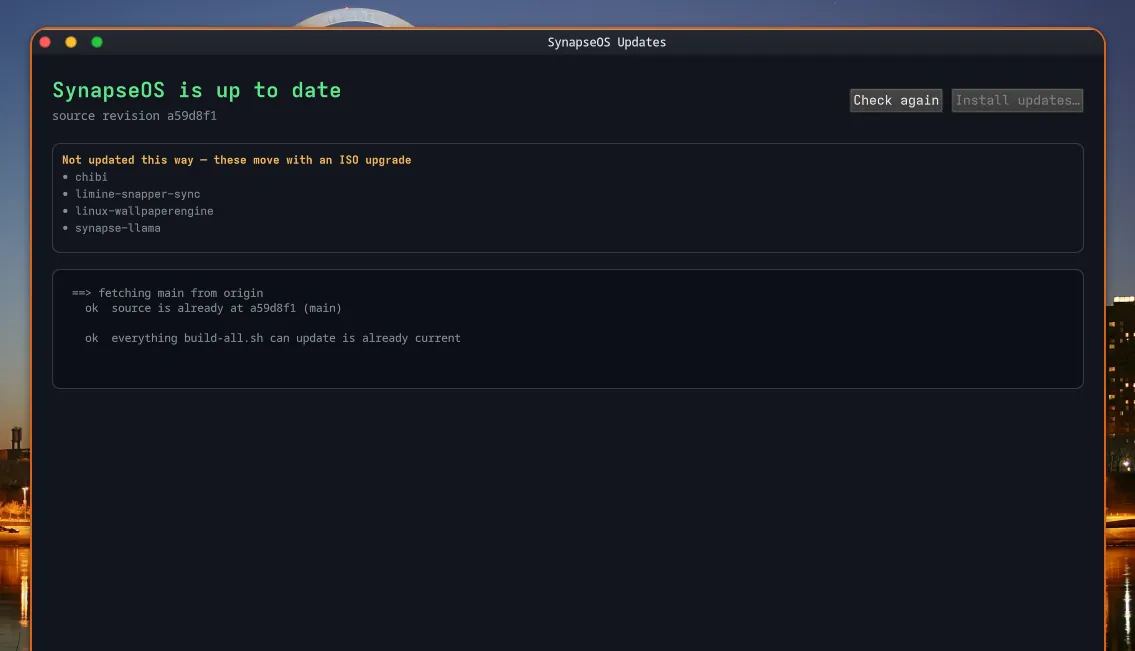
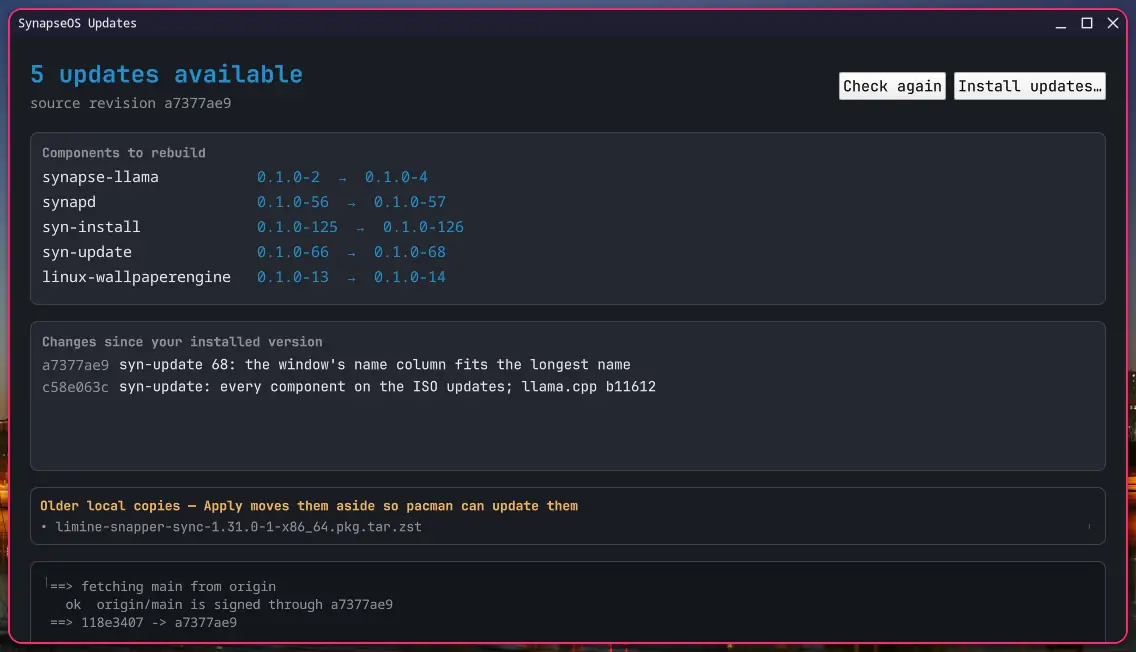
Updates: new screenshot and caption; wiki mirror for every-component updates
The Updates slide showed the window's "Not updated this way — these move with
an ISO upgrade" card, which syn-update 67 removes. The slide now shows a
headless capture of syn-update 68 against the live tree. It lists the
rebuilds, including synapse-llama, and the card for old local copies. The
caption says what the tool does now.

Wiki mirror rebuilt from GitHub: Updating, Building-and-Packaging,
Cutting-an-ISO-Release, synapd and Wallpapers now describe llama.cpp b11612
built per machine and the limine pair from [cachyos].

Claude-Session: https://claude.ai/code/session_01KmxTrjr4UBSp1Cm2y9CgyP

Changed region(s): [[0.0, 0.0, 1.0, 1.0]]

diff --git a/public/wiki/Updating.html b/public/wiki/Updating.html
@@ -63,7 +63,8 @@
 <li class="sub"><a href="#only-signed-commits-are-built">Only signed commits are built</a></li>
 <li class="sub"><a href="#options">Options</a></li>
 <li><a href="#requirements">Requirements</a></li>
-<li><a href="#what-it-does-not-update">What it does not update</a></li>
+<li><a href="#what-it-updates">What it updates</a></li>
+<li class="sub"><a href="#a-component-a-system-update-broke">A component a system update broke</a></li>
 <li><a href="#why-this-exists">Why this exists</a></li>
 <li><a href="#troubleshooting">Troubleshooting</a></li>
 </ul></nav>
@@ -72,7 +73,7 @@
       <p class="eyebrow">Using it</p>
       <h1>Updating</h1>
       <p class="wiki-meta">
-        <a href="https://github.com/velle999/SYNAPSE/wiki/Updating/_edit" rel="noopener">Edit on GitHub</a> &middot; last edited <time datetime="2026-09-21">2026-09-21</time>
+        <a href="https://github.com/velle999/SYNAPSE/wiki/Updating/_edit" rel="noopener">Edit on GitHub</a> &middot; last edited <time datetime="2026-10-14">2026-10-14</time>
       </p>
 
       <div class="wiki-body">
@@ -242,32 +243,60 @@ warn    the first is 1a2b3c4 &lt;its subject&gt;
 from <code>core</code> — roughly <strong>17 packages, ~118 MiB</strong> on a system that has none of them.</p>
 <p><code>cmake</code> and <code>meson</code> are deliberately <strong>not</strong> hard dependencies. <code>makepkg -s</code>
 pulls each component's own <code>makedepends</code> on demand, so you only pay for what you
-actually build. Hard-depending on cmake would add ~150 MiB for a component
-<code>syn-update</code> does not update anyway.</p>
+actually build.</p>
 <hr />
-<h2 id="what-it-does-not-update">What it does not update</h2>
-<p>Some components are on the ISO but are not rebuilt this way. <code>syn-update</code>
-<strong>reports</strong> these rather than skipping them silently — a component quietly frozen
-forever is the exact bug this tool exists to fix.</p>
+<h2 id="what-it-updates">What it updates</h2>
+<p>Every SynapseOS component on the ISO is rebuilt this way, including:</p>
 <div class="table-scroll"><table>
 <thead>
 <tr>
 <th>Component</th>
-<th>Why not</th>
+<th>What its build involves</th>
 </tr>
 </thead>
 <tbody>
 <tr>
 <td><code>synapse-llama</code></td>
-<td>Packaged from a staging tree that only exists during an ISO build</td>
+<td>llama.cpp, compiled on the machine for the backend it already runs — CUDA, Vulkan or CPU. A CUDA build is compiled for the installed card only and takes several minutes</td>
 </tr>
 <tr>
 <td><code>linux-wallpaperengine</code></td>
-<td>Its build fetches a ~1.3 GB CEF blob and needs ~6 GB of scratch</td>
+<td>Fetches a ~1.3 GB CEF blob and needs ~6 GB of scratch</td>
 </tr>
 </tbody>
 </table></div>
-<p>These move with an ISO upgrade instead.</p>
+<p>Two packages on the ISO come from the <code>[cachyos]</code> repository instead, and
+<code>pacman -Syu</code> updates them:</p>
+<div class="table-scroll"><table>
+<thead>
+<tr>
+<th>Package</th>
+<th>Source</th>
+</tr>
+</thead>
+<tbody>
+<tr>
+<td><code>limine-snapper-sync</code></td>
+<td><code>[cachyos]</code></td>
+</tr>
+<tr>
+<td><code>limine-mkinitcpio-hook</code></td>
+<td><code>[cachyos]</code></td>
+</tr>
+</tbody>
+</table></div>
+<p>The ISO carries copies of both for the installer. On a machine installed before
+<code>syn-update</code> 0.1.0-67, an old copy may still sit in the local repository
+(<code>/var/cache/synapseos</code>), which pacman reads before <code>[cachyos]</code>, and keep
+<code>pacman -Syu</code> from offering the newer version. <code>syn-update check</code> lists such
+files; the next <code>syn-update apply</code> moves them to <code>/var/cache/synapseos/superseded/</code>.</p>
+<h3 id="a-component-a-system-update-broke">A component a system update broke</h3>
+<p>When an Arch update replaces a library with a new soname — ffmpeg 8 to 9 moved
+<code>libavcodec.so.62</code> to <code>libavcodec.so.63</code> — a component linked against the old
+one stops loading, while its version stays the same. <code>syn-update check</code> lists
+it for a rebuild at the version it already has, with the missing library named
+under the table, and <code>syn-update apply</code> rebuilds it. If the rebuild does not
+fix it, <code>check</code> says so and it is not rebuilt again for the same library.</p>
 <p><strong>A component that is new since you installed is ADDED</strong>, not skipped. That is
 what makes a suite work: <code>synfiles</code>, <code>synpkg</code>, <code>syn-settings</code>, <code>syn-disks</code>,
 <code>syn-edit</code>, <code>syn-confine</code>, <code>syn-arcade</code>, <strong><code>syntty</code></strong> and <strong><code>cliamp</code></strong> all
@@ -286,13 +315,13 @@ covered now.</p>
 <p>Adding software is a louder act than updating it, so new components are listed
 in their own section of <code>syn-update check</code> rather than mixed in with the
 upgrades.</p>
-<p>Two are deliberately excluded from that, and <code>syn-update</code> names them rather than
-skipping in silence:</p>
+<p>Three are deliberately excluded from that, and <code>syn-update</code> names them rather
+than skipping in silence:</p>
 <div class="table-scroll"><table>
 <thead>
 <tr>
 <th>Never added</th>
-<th>Why</th>
+<th>How it arrives instead</th>
 </tr>
 </thead>
 <tbody>
@@ -301,12 +330,16 @@ skipping in silence:</p>
 <td>The ISO's disk installer. An installed system is not meant to have a disk partitioner on <code>PATH</code></td>
 </tr>
 <tr>
-<td><code>limine-mkinitcpio-hook</code></td>
-<td>It writes limine boot entries. On any other bootloader it would pull limine in and override the mkinitcpio hook — a broken initramfs pipeline, delivered as an update. It reaches limine machines through the installer and the Settings Kernel pane instead</td>
+<td><code>synapse-llama</code></td>
+<td>With <code>synapd</code>, as the build for the machine's GPU, chosen at install time. A machine that runs Arch's own llama.cpp through <code>synapse-llama-system</code> does not get it</td>
+</tr>
+<tr>
+<td><code>samsung-m2020</code></td>
+<td>A driver for one Samsung printer. <code>syn printer samsung</code> installs it, after showing its licence</td>
 </tr>
 </tbody>
 </table></div>
-<p>Both are still <em>updated</em> when present; they are only never introduced.</p>
+<p>All three are still <em>updated</em> when present; they are only never introduced.</p>
 <hr />
 <h2 id="why-this-exists">Why this exists</h2>
 <p>Every system installed from an ISO before 0.2.3 was given a package repository
@@ -331,9 +364,9 @@ fix, which is the dead end being removed.</p>
 <code>apply</code> runs <code>sudo pacman -U</code> mid-build and needs a terminal to prompt on. Run it
 from a terminal, not from a launcher or a script with no tty. The GUI does this
 for you.</p>
-<p><strong>It reports a component as unsupported.</strong>
-That is intentional and not an error — see the table above. Those components come
-with an ISO upgrade.</p>
+<p><strong>It lists package files that "hide newer versions from another repository".</strong>
+Those are old copies of the <code>[cachyos]</code> packages described above. Run
+<code>syn-update apply</code> to move them aside, then <code>pacman -Syu</code>.</p>
 <p><strong><code>pacman</code> offers to downgrade a SynapseOS package after an update.</strong>
 That was a real bug in <code>syn-update</code> 0.1.0-6 and earlier, where the local
 repository kept advertising versions older than what was installed. Update

diff --git a/public/wiki/Building-and-Packaging.html b/public/wiki/Building-and-Packaging.html
@@ -72,7 +72,7 @@
       <p class="eyebrow">Hacking on it</p>
       <h1>Building and Packaging</h1>
       <p class="wiki-meta">
-        <a href="https://github.com/velle999/SYNAPSE/wiki/Building-and-Packaging/_edit" rel="noopener">Edit on GitHub</a> &middot; last edited <time datetime="2026-08-13">2026-08-13</time>
+        <a href="https://github.com/velle999/SYNAPSE/wiki/Building-and-Packaging/_edit" rel="noopener">Edit on GitHub</a> &middot; last edited <time datetime="2026-10-14">2026-10-14</time>
       </p>
 
       <div class="wiki-body">
@@ -97,10 +97,6 @@ goes:</p>
 </thead>
 <tbody>
 <tr>
-<td><code>archiso/build/</code> — llama.cpp plus one tree per backend</td>
-<td>~3.1 GB</td>
-</tr>
-<tr>
 <td><code>archiso/work/</code> — mkarchiso's staging tree, then the squashfs</td>
 <td>the bulk of it</td>
 </tr>
@@ -116,18 +112,22 @@ goes:</p>
 <td><code>/var/tmp</code> at peak — <code>linux-wallpaperengine</code> unpacks a ~1.3 GB CEF blob</td>
 <td>several GB, transient</td>
 </tr>
+<tr>
+<td><code>/var/tmp</code> while llama.cpp compiles, one backend at a time</td>
+<td>0.4–0.7 GB each, more for CUDA; transient</td>
+</tr>
 </tbody>
 </table></div>
 <p>The <code>/var/tmp</code> scratch does not stack with the staging tree: packages are built
 and cleaned up before <code>mkarchiso</code> runs. A model costs its ~4.4 GB three times
 over — overlay, staging tree, image — which is most of the difference between
 the two figures.</p>
-<p><code>build-all.sh</code> builds against the staged llama tree for whichever backend this
-host runs — <code>llama-staging-cpu</code>, <code>-cuda</code> or <code>-vulkan</code>, defaulting to the one
-already installed, so a routine rebuild on a GPU box does not quietly try to
-replace the GPU package with a CPU one. Produce a staging tree with
-<code>sudo ./archiso/build.sh --gpu=cuda --llama-only</code>. It asks for <code>sudo</code> <strong>up
-front</strong> and then runs unattended.</p>
+<p><code>build-all.sh</code> builds <code>synapse-llama</code> for the backend this host already runs —
+CUDA, Vulkan or CPU — so a rebuild on a GPU box produces the GPU package again.
+CUDA kernels are compiled for the installed card only. Set
+<code>SYNAPSE_LLAMA_BACKEND=cuda</code>, <code>vulkan</code> or <code>cpu</code> to choose another backend, and
+<code>SYNAPSE_LLAMA_CUDA_ARCH</code> to name other CUDA architectures. It asks for <code>sudo</code>
+<strong>up front</strong> and then runs unattended.</p>
 <blockquote>
 <p><strong><code>scenefx</code> is built and installed before <code>synui</code></strong>, not alongside it — synui
 links <code>libscenefx-0.5.so</code> and the build is red without it. It is also a <strong>fork</strong>
@@ -233,13 +233,17 @@ later as a confusing pacstrap error. That's deliberate — an earlier version le
 failures through and they showed up as "package not found" much later.</p>
 <hr />
 <h2 id="llamacpp">llama.cpp</h2>
-<p>Pinned at tag <strong><code>b10241</code></strong>, matching CI and <code>synapse-llama</code>'s <code>_llama_ref</code> —
-the two are separate constants and must be bumped together. The CUDA build needs
-a patch for CCCL 3.4 (<code>cub</code>). From b10241 the Vulkan build also requires
-<strong>SPIRV-Headers</strong>, which was not a dependency at b8272.</p>
-<p><code>--no-clean</code> preserves <code>archiso/build/llama.cpp</code> so this doesn't get recompiled —
-it is by far the most expensive step. It is safe: <code>build.sh</code> always wipes
-mkarchiso's <code>work/</code> and gates only <code>build/</code> on <code>--clean</code>.</p>
+<p><code>synapse-llama/PKGBUILD</code> builds llama.cpp from the upstream release named by its
+<code>_llama_ref</code> — currently <strong><code>b11612</code></strong>. That is the only pin: <code>archiso/build.sh</code>
+and CI both read it from the PKGBUILD. Installed machines build the same
+PKGBUILD through <code>syn-update</code>, so moving the pin moves every machine.</p>
+<p>The Vulkan build requires <strong><code>shaderc</code></strong>, <strong><code>vulkan-headers</code></strong> and
+<strong><code>spirv-headers</code></strong>; the CUDA build requires <strong><code>cuda</code></strong>. <code>llama-server</code>'s web UI
+is downloaded during the build, so building <code>synapse-llama</code> needs network access
+beyond the source tarball.</p>
+<p>The ISO's CUDA package is compiled for llama.cpp's default list of NVIDIA
+architectures, so it runs on any supported card; <code>build-all.sh</code> and <code>syn-update</code>
+compile for the installed card only.</p>
 <hr />
 <h2 id="shared-git-index-hazard">Shared git index hazard</h2>
 <p>Concurrent sessions working in <code>~/SYNAPSE</code> share <strong>one git index</strong>. Never unstage

diff --git a/public/wiki/synapd.html b/public/wiki/synapd.html
@@ -75,7 +75,7 @@
       <p class="eyebrow">Components</p>
       <h1>synapd</h1>
       <p class="wiki-meta">
-        <a href="https://github.com/velle999/SYNAPSE/wiki/synapd/_edit" rel="noopener">Edit on GitHub</a> &middot; last edited <time datetime="2026-09-20">2026-09-20</time>
+        <a href="https://github.com/velle999/SYNAPSE/wiki/synapd/_edit" rel="noopener">Edit on GitHub</a> &middot; last edited <time datetime="2026-10-14">2026-10-14</time>
       </p>
 
       <div class="wiki-body">
@@ -151,8 +151,9 @@ to the CPU build</strong>. That design exists because of the bug below.</p>
 <code>-vulkan</code> on AMD/Intel); switch by hand any time with the <strong>AI backend</strong> row or
 <code>synui-ai-backend gpu</code>. <strong>Vulkan</strong> is the portable AMD/Intel choice — no
 per-architecture compile and only the mesa ICD at runtime — and is competitive
-with ROCm for token generation. ROCm/HIP stays an opt-in for a known-supported
-AMD card: <code>build.sh --gpu=rocm</code>.</p>
+with ROCm for token generation. There is no ROCm build.</p>
+<p>Whichever one is installed, <code>syn-update</code> rebuilds it on the machine when the
+llama.cpp pin moves, and rebuilds <code>synapd</code> after it.</p>
 <h3 id="verify-it-never-assume-it">Verify it. Never assume it.</h3>
 <div class="hl"><pre><span></span><code><span class="c1"># NVIDIA / CUDA:</span>
 grep<span class="w"> </span>-c<span class="w"> </span>nvidia<span class="w"> </span>/proc/<span class="k">$(</span>pidof<span class="w"> </span>synapd<span class="k">)</span>/maps<span class="w">               </span><span class="c1"># 0 = you are on the CPU</span>
@@ -178,8 +179,8 @@ stacked silent failures</strong>:</p>
 <p>The lesson is #3. A plausible hardcoded value is worse than a crash — it produces
 a system that lies to you consistently.</p>
 <h3 id="building-cuda">Building CUDA</h3>
-<p>llama.cpp pinned at <strong><code>b10241</code></strong>, with a <strong>CCCL 3.4 <code>cub</code> patch</strong> (CUDA 13 broke
-the API). Verified clean with <strong>gcc 16 + nvcc 13.3</strong>.</p>
+<p>llama.cpp pinned at <strong><code>b11612</code></strong> — <code>_llama_ref</code> in <code>synapse-llama/PKGBUILD</code>. It
+builds against CUDA 13 with no patches; verified with <strong>gcc 16 + nvcc 13.4</strong>.</p>
 <blockquote>
 <p><strong>The ISO ships a CPU build on purpose.</strong> A CUDA-linked <code>synapd</code> needs
 <code>libcuda.so.1</code>, which doesn't exist on a machine with no NVIDIA driver — it

diff --git a/public/wiki/Cutting-an-ISO-Release.html b/public/wiki/Cutting-an-ISO-Release.html
@@ -70,7 +70,7 @@
       <p class="eyebrow">Hacking on it</p>
       <h1>Cutting an ISO Release</h1>
       <p class="wiki-meta">
-        <a href="https://github.com/velle999/SYNAPSE/wiki/Cutting-an-ISO-Release/_edit" rel="noopener">Edit on GitHub</a> &middot; last edited <time datetime="2026-09-21">2026-09-21</time>
+        <a href="https://github.com/velle999/SYNAPSE/wiki/Cutting-an-ISO-Release/_edit" rel="noopener">Edit on GitHub</a> &middot; last edited <time datetime="2026-10-14">2026-10-14</time>
       </p>
 
       <div class="wiki-body">
@@ -192,11 +192,11 @@ already the right one:</p>
 </tr>
 <tr>
 <td><code>--llama-only</code></td>
-<td>build and stage llama.cpp, then stop — no packages, no ISO</td>
+<td>build the <code>synapse-llama</code> package for <code>--gpu</code> and stage it, then stop — no other packages, no ISO</td>
 </tr>
 <tr>
 <td><code>--no-clean</code></td>
-<td>reuse the previous llama.cpp build — <strong>safe</strong>, and saves the most time</td>
+<td>keep <code>archiso/build/</code> from the previous run; llama.cpp is rebuilt either way</td>
 </tr>
 <tr>
 <td><code>--no-sign</code></td>
@@ -211,7 +211,7 @@ already the right one:</p>
 <p>Output: <code>archiso/out/SynapseOS-&lt;ver&gt;-x86_64.iso</code>.</p>
 <blockquote>
 <p><strong>The ISO ships a CPU llama build on purpose, and the default flags give you
-that.</strong> A CUDA or ROCm build links the shipped <code>libggml</code> against the <em>build
+that.</strong> A CUDA build links the shipped <code>libggml</code> against the <em>build
 host's</em> driver stack, so <code>synapd</code> exits 127 on any machine without it —
 including every VM. <code>--gpu=vulkan</code> is the exception: it links only the Vulkan
 loader and runs on any AMD/Intel card.</p>

diff --git a/public/wiki/Wallpapers.html b/public/wiki/Wallpapers.html
@@ -75,7 +75,7 @@
       <p class="eyebrow">Customising it</p>
       <h1>Wallpapers</h1>
       <p class="wiki-meta">
-        <a href="https://github.com/velle999/SYNAPSE/wiki/Wallpapers/_edit" rel="noopener">Edit on GitHub</a> &middot; last edited <time datetime="2026-09-03">2026-09-03</time>
+        <a href="https://github.com/velle999/SYNAPSE/wiki/Wallpapers/_edit" rel="noopener">Edit on GitHub</a> &middot; last edited <time datetime="2026-10-14">2026-10-14</time>
       </p>
 
       <div class="wiki-body">
@@ -257,10 +257,10 @@ a native reimplementation that reads the same Workshop assets and paints a
 <code>wlr-layer-shell</code> surface. SynapseOS packages it together with a control script,
 <strong><code>synui-wpengine</code></strong>, which is what the <code>Super</code>+<code>W</code> picker drives.</p>
 <h3 id="getting-it">Getting it</h3>
-<p><strong>It is on the ISO as of 0.2.1</strong> — installed already, nothing to build. On
-0.2.0 and earlier it was not, and had to be built from the repo:</p>
-<div class="hl"><pre><span></span><code><span class="nb">cd</span><span class="w"> </span>linux-wallpaperengine-pkg
-makepkg<span class="w"> </span>-si
+<p><strong>It is on the ISO as of 0.2.1</strong> — installed already, nothing to build, and
+<code>syn-update</code> keeps it current. On a machine without it (0.2.0 and earlier, or
+unticked at install time), build and install it with:</p>
+<div class="hl"><pre><span></span><code>syn-update<span class="w"> </span>apply<span class="w"> </span>linux-wallpaperengine
 </code></pre></div>
 
 <p>It needs, at runtime:</p>

diff --git a/public/index.html b/public/index.html
@@ -664,10 +664,10 @@
         <li class="slide" aria-label="Updates (11 of 13)">
           <figure>
             <span class="media">
-              <img src="/assets/shots/updates.webp?v=2026-08-25" width="1135" height="651" loading="lazy" decoding="async"
-                   alt="Updates — Source-revision aware: it names what an ISO upgrade would bring that a package update cannot.">
+              <img src="/assets/shots/updates.webp?v=2026-10-14" width="1136" height="652" loading="lazy" decoding="async"
+                   alt="Updates — every component rebuilt from signed source, llama.cpp for the machine's own GPU included.">
             </span>
-            <figcaption><b>Updates</b><span>Source-revision aware: it names what an ISO upgrade would bring that a package update cannot.</span></figcaption>
+            <figcaption><b>Updates</b><span>Every component rebuilt from signed source, llama.cpp for the machine's own GPU included.</span></figcaption>
           </figure>
           <label class="arrow prev" for="pick-arsenal" aria-hidden="true"><span>&lsaquo;</span></label>
           <label class="arrow next" for="pick-tuxagotchi" aria-hidden="true"><span>&rsaquo;</span></label>
